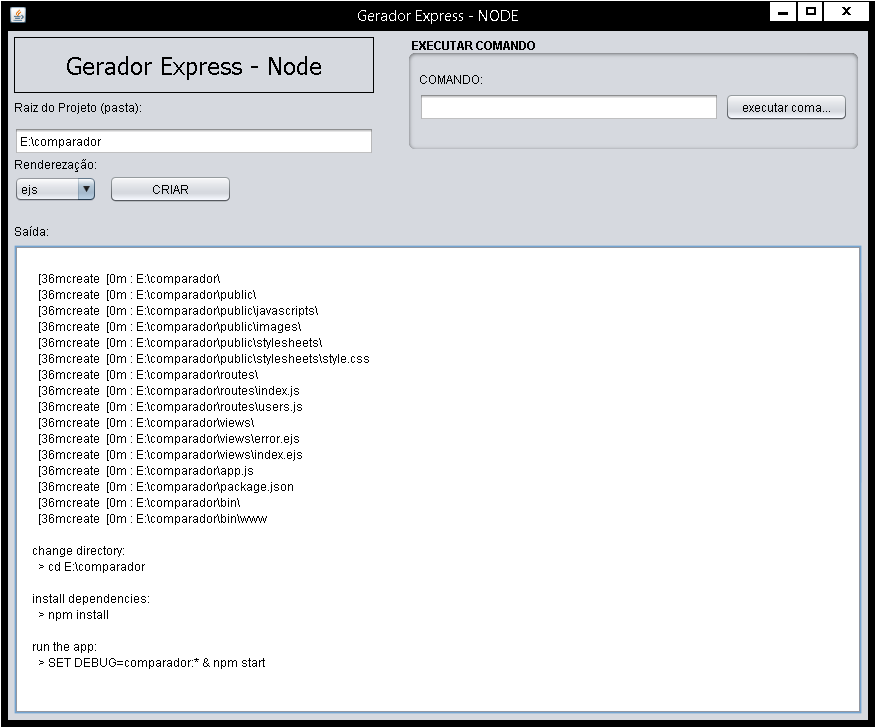
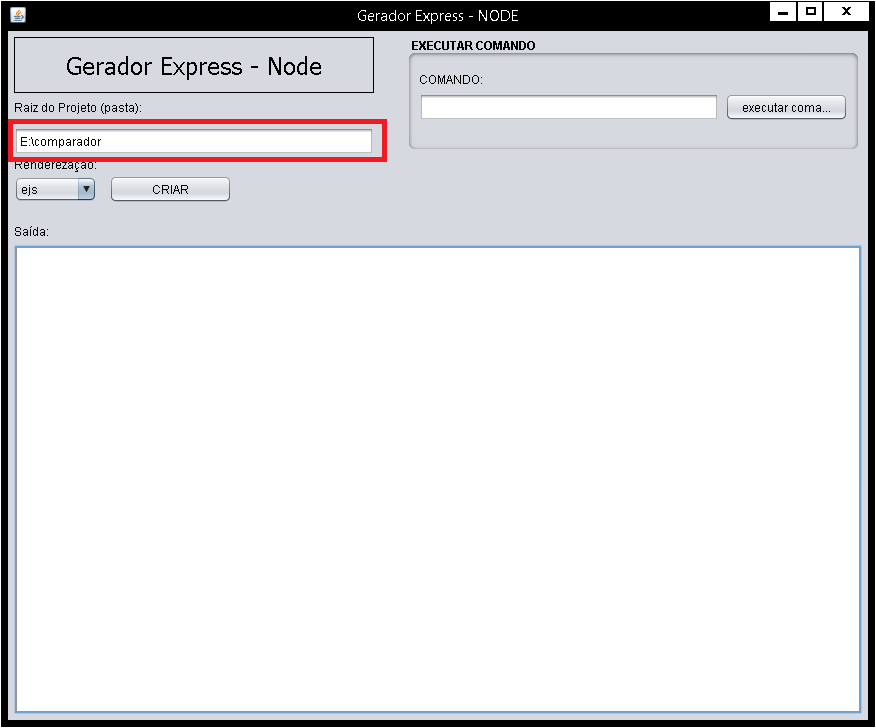
Commit

diff --git a/README.md b/README.md
@@ -13,5 +13,5 @@
 
 ### Você deve escolher uma pasta vazia e colar no campo em vermelho
 
-<img src="https://github.com/TaffarelXavier/gerador-express-node-java/blob/master/imagens/tela-inicial.png?raw=true" />
+<img src="https://github.com/TaffarelXavier/gerador-express-node-java/raw/master/imagens/pasta.png?raw=true" />
 
